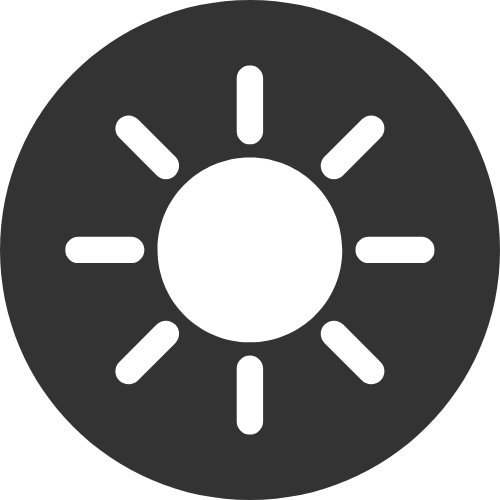
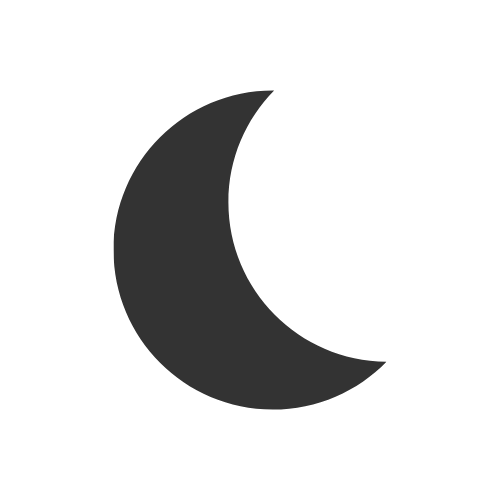
Added the dark mode

diff --git a/style.css b/style.css
@@ -1,17 +1,53 @@
 @import url("https://fonts.googleapis.com/css2?family=Poppins:wght@300;400;500;600&display=swap");
+/*Light mode*/
+:root {
+  --primary-color: white;
+  --primary-color-2: rgb(250, 250, 250);
+  --primary-color-3: rgb(181, 181, 181);
+  --background-color: rgb(255, 255, 255);
+
+  --secondary-color: black;
+  --secondary-color-2: rgb(85, 85, 85);
+  --button-background: rgb(53, 53, 53);
+  --button-text-hover: grey;
+  --button-border: rgb(53, 53, 53) 0.2rem solid;
+  --button-border-2: rgb(255, 255, 255) 0.2rem solid;
+  --container-border: 1px solid black;
+}
+
+/*Dark Mode*/
+[theme="dark"] {
+  --primary-color: black;
+  --primary-color-2: rgb(39, 39, 39);
+  --primary-color-3: rgb(74, 74, 74);
+  --background-color: rgb(33, 33, 33);
+
+  --secondary-color: white;
+  --secondary-color-2: rgb(170, 170, 170);
+  --button-background: rgb(202, 202, 202);
+  --button-text-hover: lightgrey;
+  --button-border: rgb(202, 202, 202) 0.2rem solid;
+  --button-border-2: rgb(0, 0, 0) 0.1rem solid;
+  --container-border: 1px solid white;
+}
+
+h3 {
+  color: var(--secondary-color);
+}
 
 /* general styles*/
 body {
   font-family: "Poppins", sans-serif;
   padding: 0;
   margin: 0;
+  background-color: var(--background-color);
 }
 html {
   scroll-behavior: smooth;
 }
 
 p {
-  color: rgb(85, 85, 85);
+  color: var(--secondary-color-2);
 }
 
 section {
@@ -38,6 +74,7 @@ nav {
 
 .logo {
   font-size: 2rem;
+  color: var(--secondary-color);
 }
 
 .logo:hover {
@@ -53,7 +90,7 @@ nav {
 }
 
 .nav-links li a {
-  color: black;
+  color: var(--secondary-color);
   text-decoration: none;
 }
 
@@ -78,7 +115,7 @@ nav {
 .bar {
   height: 3px;
   width: 100%;
-  background-color: black;
+  background-color: var(--secondary-color);
   border-radius: 10px;
 }
 
@@ -127,6 +164,7 @@ section p {
 .title {
   text-align: center;
   font-size: 3rem;
+  color: var(--secondary-color);
 }
 
 .btn-container {
@@ -138,10 +176,11 @@ section p {
   width: 8rem;
   padding: 0.75rem;
   font-size: 1rem;
-  border: 3px solid black;
+  border: var(--button-border);
   border-radius: 20px;
   margin: 1rem;
-  background: white;
+  background: var(--background-color);
+  color: var(--secondary-color);
 }
 
 .btn2 {
@@ -151,8 +190,8 @@ section p {
   border: 3px solid rgb(204, 201, 201);
   border-radius: 20px;
   margin: 1rem;
-  background-color: black;
-  color: white;
+  background-color: var(--button-background);
+  color: var(--primary-color);
 }
 
 #socials-container {
@@ -205,9 +244,8 @@ section p {
 }
 
 .arrow {
-  position: relative;
+  position: absolute;
   bottom: 2rem;
-  right: -100rem;
   height: 2rem;
   cursor: pointer;
 }
@@ -216,7 +254,7 @@ section p {
 .about-education {
   padding: 2rem;
   text-align: center;
-  border: 1px solid black;
+  border: var(--container-border);
   margin: 1rem;
   border-radius: 2rem;
   width: 18rem;
@@ -245,7 +283,7 @@ section p {
 .frontend {
   display: flex;
   flex-direction: column;
-  border: 1px solid rgb(59, 59, 59);
+  border: var(--container-border);
   border-radius: 20px;
   padding: 2rem;
 }
@@ -253,6 +291,7 @@ section p {
 .experience-h2 {
   text-align: center;
   margin-bottom: 2rem;
+  color: var(--secondary-color);
 }
 
 .experirnce-languages {
@@ -294,7 +333,7 @@ section p {
 }
 
 .project-one {
-  border: 1px solid black;
+  /*border: var(--container-border);*/
   padding: 1rem;
   border-radius: 2rem;
 }
@@ -315,6 +354,7 @@ section p {
 .pr-h2 {
   text-align: center;
   padding: 1rem;
+  color: var(--secondary-color);
 }
 
 .project-buttons {
@@ -350,7 +390,7 @@ section p {
   display: flex;
   justify-content: center;
   align-items: center;
-  border: 1px solid black;
+  border: var(--container-border);
   padding: 1rem;
   margin-top: 2rem;
   gap: 4rem;
@@ -377,7 +417,7 @@ section p {
 .backend {
   display: flex;
   flex-direction: column;
-  border: 1px solid rgb(59, 59, 59);
+  border: var(--container-border);
   border-radius: 20px;
   padding: 2rem;
 }

diff --git a/script.js b/script.js
@@ -1,9 +1,52 @@
-const toggleButton = document.getElementsByClassName("toggle-button")[0]
-const navLinks = document.getElementsByClassName("nav-links")[0]
+const toggleButton = document.getElementsByClassName("toggle-button")[0];
+const navLinks = document.getElementsByClassName("nav-links")[0];
 
+toggleButton.addEventListener("click", function () {
+  navLinks.classList.toggle("active");
+  toggleButton.classList.toggle("active");
+});
 
+const themeBtn = document.getElementById("modeToggle");
+const themeIcons = document.querySelectorAll(".icon");
+const arrowIcons = document.querySelectorAll(".arrow");
+const currentTheme = localStorage.getItem("theme");
 
-toggleButton.addEventListener('click', function(){
-    navLinks.classList.toggle('active')
-    toggleButton.classList.toggle('active')
-})
+if (currentTheme === "dark") {
+  setDarkMode();
+}
+
+themeBtn.addEventListener("click", function () {
+  setTheme();
+});
+
+function setTheme() {
+  let currentTheme = document.body.getAttribute("theme");
+
+  if (currentTheme === "dark") {
+    setLightMode();
+  } else {
+    setDarkMode();
+  }
+}
+
+function setDarkMode() {
+  document.body.setAttribute("theme", "dark");
+  localStorage.setItem("theme", "dark");
+
+  themeIcons.forEach((icon) => {
+    icon.src = icon.getAttribute("src-dark");
+  });
+
+  arrowIcons.forEach((arrow) => {
+    arrow.src = arrow.getAttribute("src-dark");
+  });
+}
+
+function setLightMode() {
+  document.body.removeAttribute("theme");
+  localStorage.setItem("theme", "light");
+
+  themeIcons.forEach((icon) => {
+    icon.src = icon.getAttribute("src-light");
+  });
+}

diff --git a/mediaqueries.css b/mediaqueries.css
@@ -16,7 +16,7 @@
   justify-content: space-around;
 }
 
-@media screen and (max-width: var(--tablet)) {
+@media screen and (max-width: 1200px) {
   .toggle-button {
     display: flex;
   }
@@ -46,6 +46,13 @@
 
   .toggle-button.active span:last-child {
     transform: rotate(-45deg) translate(7px, -6px);
+  }
+
+  nav li:last-child {
+    width: max-content;
+    display: flex;
+    margin: auto;
+    padding: 10px;
   }
 }
 
